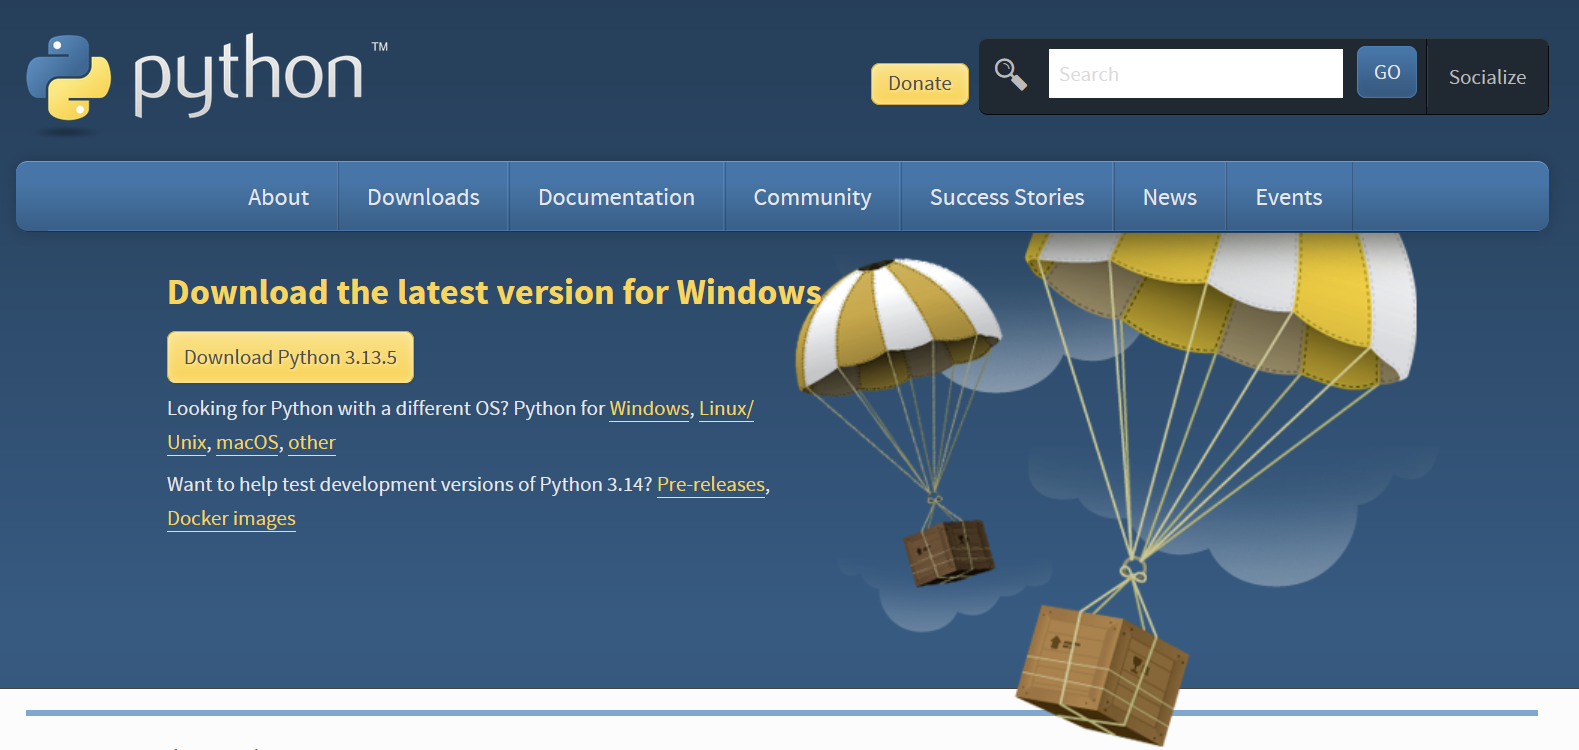
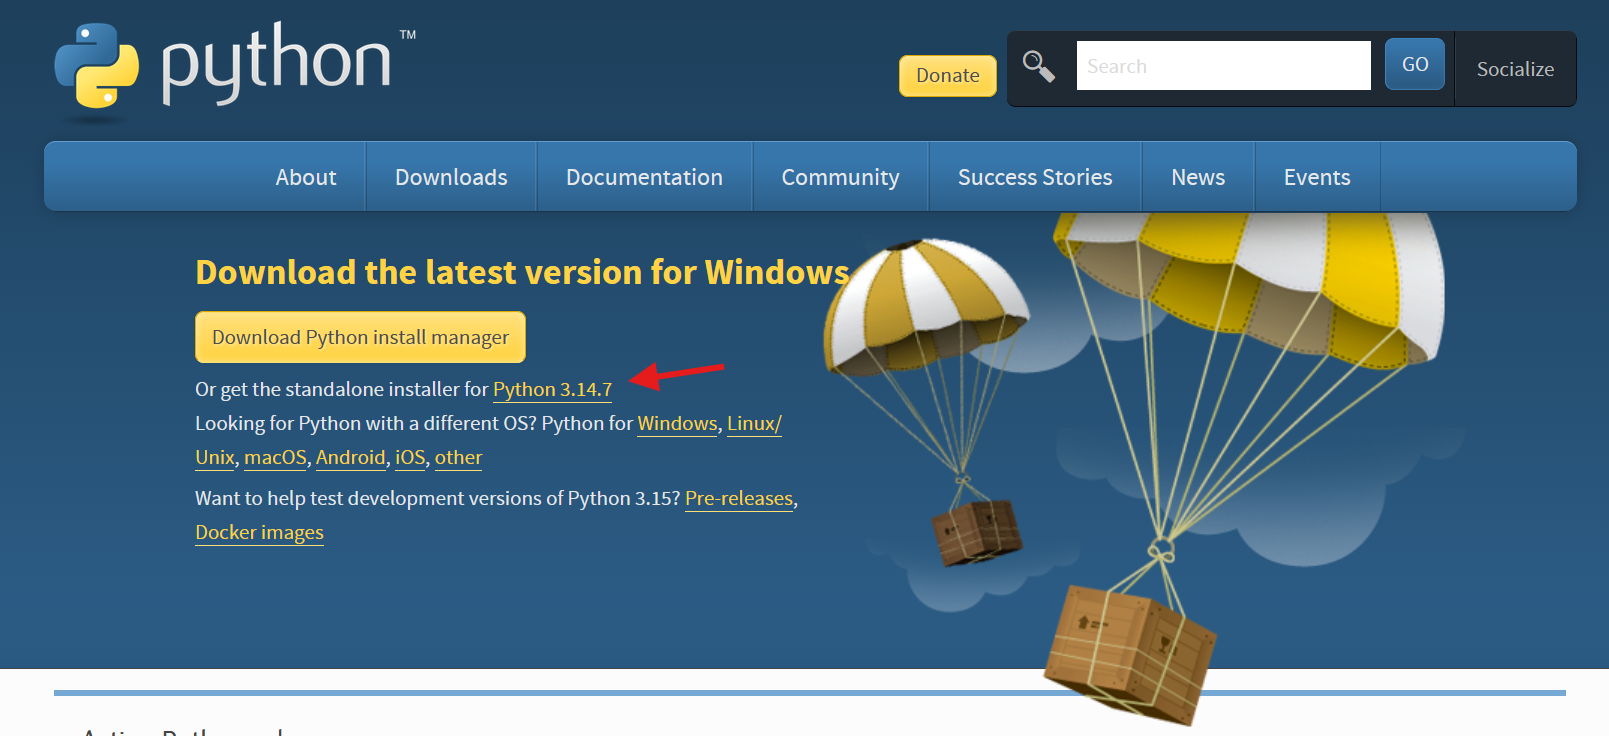
Update README with 2FA setup instructions and revised Python download guidance

diff --git a/README.md b/README.md
@@ -14,9 +14,9 @@ Welkom bij de Introductieweek voor software development! In dit document kan je 
 
 ## Python installeren
 1. Ga naar [python.org/downloads](https://python.org/downloads).
-2. Klik op de grote gele `Download Python 3.x.x`
+2. Klik op de link onder de gele button met `Get the standalone installer for Python 3.x.x`
 
-![Python.org downloadpagina met een knop om Python 3.13.5 voor Windows te downloaden, versierd met parachutes die dozen dragen.](img/1.png)
+![Python.org downloadpagina, versierd met parachutes die dozen dragen.](img/1.png)
 De versie die jij ziet in de knop kan anders zijn dan die in de screenshot. Dat maakt niks uit.
 
 3. Start de installer<br>
@@ -123,6 +123,38 @@ Dit helpt ons voorkomen dat we straks moeten uitzoeken wie `hetekaastosti301` is
 Dit is nu ook klaar. Je GitHub‑account is actief én blijft van jou nadat je bent afgestudeerd!
 
 </details>
+
+---
+
+### Twee-factor-authenticatie (2FA) instellen voor GitHub
+
+Onze GitHub-omgeving is alleen bereikbaar wanneer je account aan de benodigde beveiligingseisen voldoet. Om toegang te krijgen moet je **twee-factor-authenticatie (2FA)** inschakelen. Gebruik hiervoor **geen SMS**, maar een authenticator-app.
+
+1. Klik rechtsboven op je **profielfoto** en ga naar **Settings**.
+2. Ga in het menu naar **Password and authentication**.
+3. Zoek het onderdeel **Two-factor authentication** en klik op **Enable two-factor authentication**.
+4. Kies voor **Authenticator app**.
+5. Open een authenticator-app op je telefoon, bijvoorbeeld:
+
+    * Google Authenticator
+    * Microsoft Authenticator
+    * Authy
+    * Een andere authenticator-app die TOTP ondersteunt
+6. Scan de QR-code die GitHub laat zien met de authenticator-app.
+7. Vul de gegenereerde code in op GitHub om de configuratie te bevestigen.
+8. GitHub geeft je vervolgens **recovery codes**. Sla deze codes op een veilige plek op.
+
+   Bewaar je recovery codes bij voorkeur op **meerdere veilige plekken**. Deze codes heb je nodig als je bijvoorbeeld je telefoon of laptop kwijtraakt, een apparaat kapotgaat of je om een andere reden geen toegang meer hebt tot je authenticator-app.
+
+   Je kunt bijvoorbeeld:
+
+    * De recovery codes opslaan in een password manager.
+    * Een tweede veilige kopie bewaren op een ander apparaat of een versleutelde opslaglocatie.
+    * Een geprinte kopie op een veilige plek bewaren.
+
+   Zorg ervoor dat je recovery codes **niet alleen op hetzelfde apparaat staan als je authenticator-app**. Als dat apparaat verloren gaat of kapotgaat, kun je anders alsnog geen toegang krijgen tot je GitHub-account.
+
+> **Let op:** Gebruik voor 2FA **geen SMS**. Stel een authenticator-app in en bewaar je recovery codes op meerdere veilige plekken, zodat je ook bij verlies of schade van een apparaat toegang tot je account kunt herstellen.
 
 ---
 
